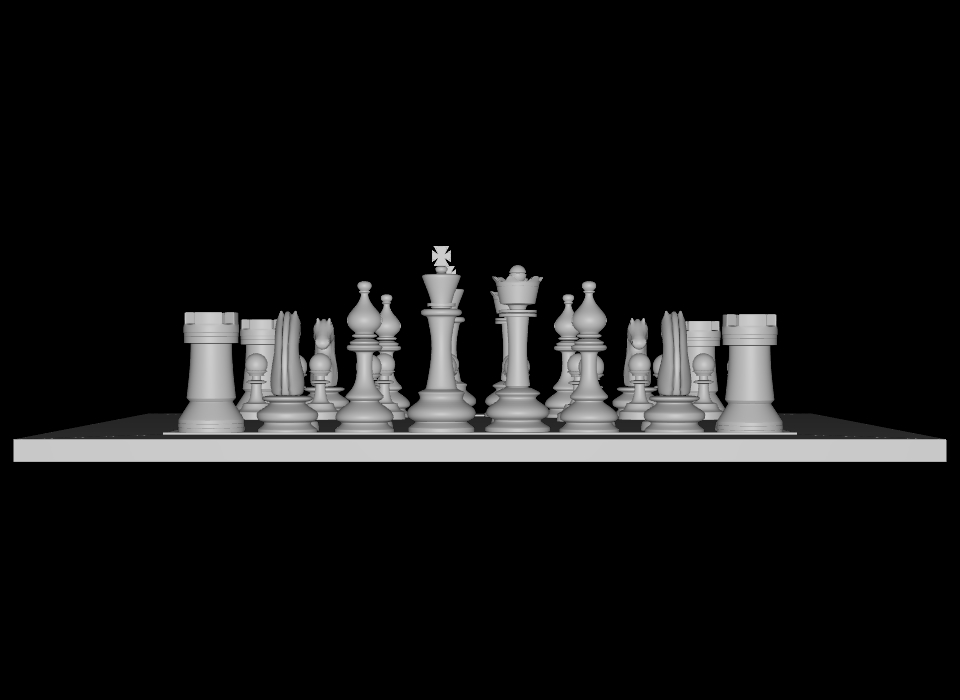
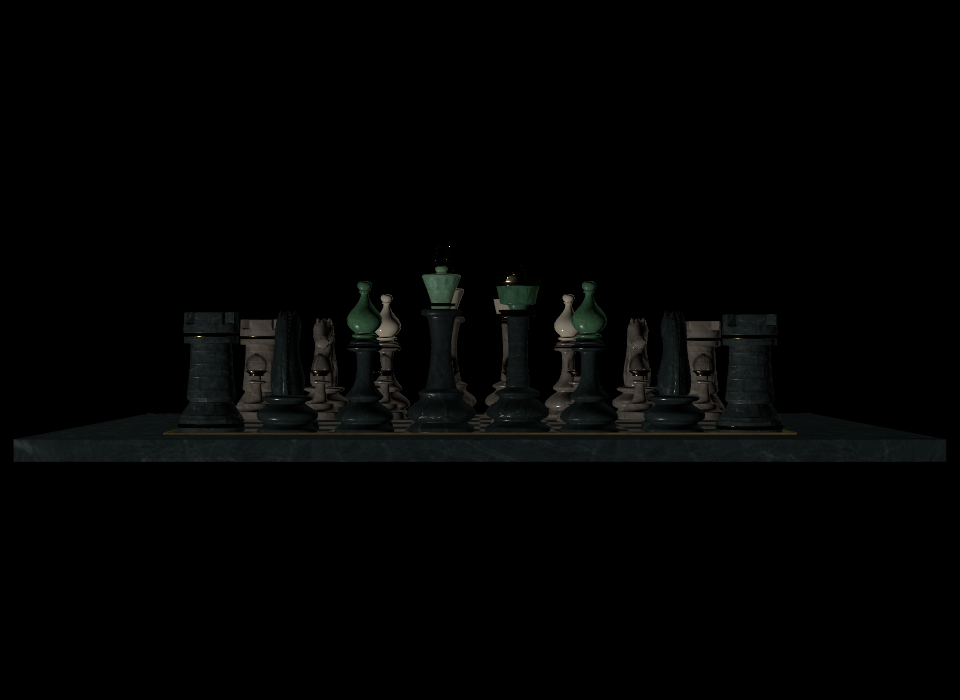
Publish ASWF CY2023 GL benchmark with ASWF USD build

Changed region(s): [[0.0, 0.33, 1.0, 0.66]]

diff --git a/README.md b/README.md
@@ -3,13 +3,13 @@
 This branch records a partial GL run using the ASWF CY2023
 environment and OpenUSD 23.08. It is not a complete CY2023 rerun of the original benchmark.
 
-![Yard 2024 / GL compared with ASWF CY2023 / GL](render_sheet.jpg)
+![ASWF CY2023 / GL compared with ASWF USD 23.08 / GL](render_sheet.jpg)
 
 ## Run configuration
 
 - Renderer: Hydra GL
-- USD: OpenUSD 23.08
-- Container: `aswf/ci-vfxall:2023`
+- USD: OpenUSD 23.08, ASWF [build script](https://github.com/AcademySoftwareFoundation/aswf-docker/blob/2c8484137a2f056a0abfd504dd5ad166240ab47e/scripts/vfx/build_usd.sh).
+- Container: `ghcr.io/nicolaspopravka/openusd-build-paths:aswf-cy2023-047e110e6b6b0d0f2714bd12026df08a01fcdf92@sha256:bc724ebdb150d44932a4f73df5e8f042ee5a20ac374038812e974c209b9bf855`
 - GPU: NVIDIA RTX PRO 4000 Blackwell, 24 GB
 - Driver: NVIDIA 580.167.08
 - OS: Rocky Linux 8.10

diff --git a/render_summary.md b/render_summary.md
@@ -2,8 +2,8 @@
 
 | Scene \ Renderer | GL |
 |---|---|
-| McUsd | Success<br>0:07.65<br>404132KB |
-| chess_set | Success<br>0:02.15<br>360336KB |
-| entry | Success<br>1:13.91<br>5285400KB |
+| McUsd | Success<br>0:07.25<br>423476KB |
+| chess_set | Success<br>1:19.32<br>1597068KB |
+| entry | Success<br>1:10.98<br>5358716KB |
 ## System Specs
 RunPod Secure NVIDIA RTX PRO 4000 Blackwell, 580.167.08, 24467 MiB; Rocky Linux 8.10 (Green Obsidian); Linux 6.8.0-124-generic
